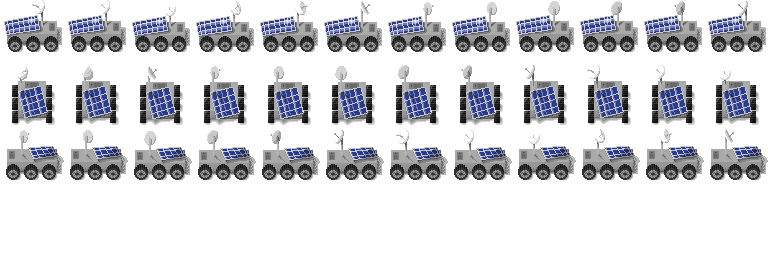
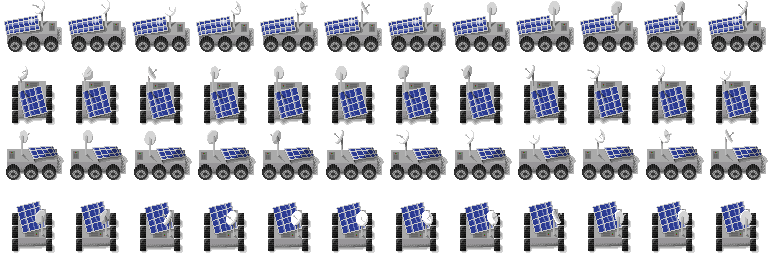
Added all the rover animations

Changed region(s): [[0.0, 0.7812, 1.0, 1.0]]

diff --git a/src/GAME/rover.py b/src/GAME/rover.py
@@ -14,6 +14,7 @@ class Rover:
         self.scaled:pygame.Surface = self.sprite
         self.map:list[list[str]] = mapin
         self.battery:int = 100
+        self.animtype:int = 0 #Which way it will go
         for y in range(len(mapin)):
             for x in range(len(mapin[y])):
                 if mapin[y][x] == 'S':
@@ -28,6 +29,16 @@ class Rover:
     def moveTo(self,xdisp:int, ydisp:int)->None:
         self.target[0] = int(self.pos[0]+xdisp)
         self.target[1] = int(self.pos[1]+ydisp)
+        if ydisp < 0:
+            self.animtype = 1
+        elif ydisp > 0:
+            self.animtype = 3
+
+        if xdisp > 0:
+            self.animtype = 0
+        elif xdisp < 0:
+            self.animtype = 2
+
         assert(self.target[0] > -1)
         assert(self.target[1] > -1)
         assert(self.target[0] < len(self.map[0]))
@@ -61,4 +72,4 @@ class Rover:
     def draw(self, screen:pygame.Surface, orewidth:float, viewstart:list[float], viewwidth:int) -> None:
         if self.pos[0]-viewstart[0] > viewwidth or self.pos[1]-viewstart[1] > viewwidth:
             return
-        screen.blit(self.scaled,((self.pos[0]-viewstart[0])*orewidth,(self.pos[1]-viewstart[1])*orewidth),(self.framenum*self.scaledwidth,0,self.scaledwidth,self.scaledwidth))
+        screen.blit(self.scaled,((self.pos[0]-viewstart[0])*orewidth,(self.pos[1]-viewstart[1])*orewidth),(self.framenum*self.scaledwidth,self.animtype*self.scaledwidth,self.scaledwidth,self.scaledwidth))

diff --git a/src/GAME/gamelogic.py b/src/GAME/gamelogic.py
@@ -2,7 +2,7 @@ import pygame
 from math import ceil
 from random import randint
 from src.GAME.rover import *
-from src.PATHFINDER.pathfinder import *
+#from src.PATHFINDER.pathfinder import *
 
 class GameLogic:
     def __init__(self, scrwidth, scrheight) -> None:
@@ -20,20 +20,21 @@ class GameLogic:
                 self.map.append(row.strip().split(','))
         self.viewedWidth:int = self.width//self.orewidth
         self.rover:Rover = Rover(self.map)
+        self.rover.setGear(1)
         self.zoom:float = 0.5
         self.createBG()
         self.scaledBG:pygame.Surface = self.background
         self.simulationTime:int = 0
         self.scale()
 
-        Pathfinder.create(500,"./src/PATHFINDER/mars_map_50x50.csv")
-        pf = Pathfinder.get_instance()
-        self.route = pf.calculate()
-        Pathfinder.destroy()
+        #Pathfinder.create(500,"./src/PATHFINDER/mars_map_50x50.csv")
+        #pf = Pathfinder.get_instance()
+        #self.route = pf.calculate()
+        #Pathfinder.destroy()
 
-        print(f"Route len: {len(self.route)}")
-        for i in range(len(self.route)):
-            print(self.route[i])
+        #print(f"Route len: {len(self.route)}")
+        #for i in range(len(self.route)):
+        #    print(self.route[i])
 
     def createBG(self)->None:
         source:pygame.Surface = pygame.image.load("./src/img/bg.png").convert_alpha()
